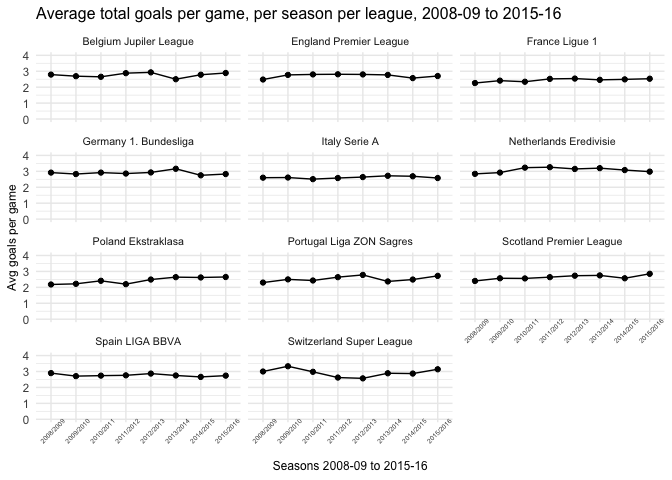
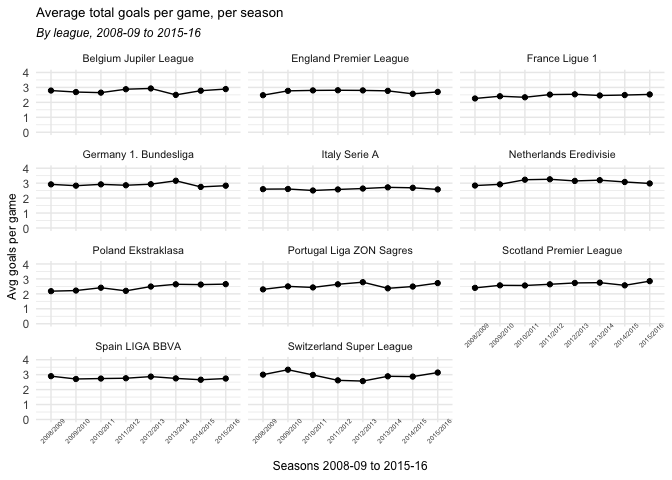
changes to chart

diff --git a/Euro_soccer_database_analysis.md b/Euro_soccer_database_analysis.md
@@ -210,11 +210,12 @@ goalspoints %>%
   geom_line(group = 1) +
   geom_point() +
   ylim(0, 4) +
-  labs(title = "Average total goals per game, per season per league, 2008-09 to 2015-16",
+  labs(title = "Average total goals per game, per season",
+       subtitle = "By league, 2008-09 to 2015-16",
     x = "Seasons 2008-09 to 2015-16", y = "Avg goals per game") +
   facet_wrap(~ league,  nrow = 4, ncol = 3) +
   theme_minimal() +
-  theme(title = element_text(size = 10),
+  theme(plot.title = element_text(size = 10), plot.subtitle = element_text(size = 9, face = "italic"),
         axis.title.x = element_text(size = 9), axis.title.y = element_text(size = 9),
         axis.text.x = element_text(size = 5, angle = 45),
         strip.text = element_text(size = 8))
